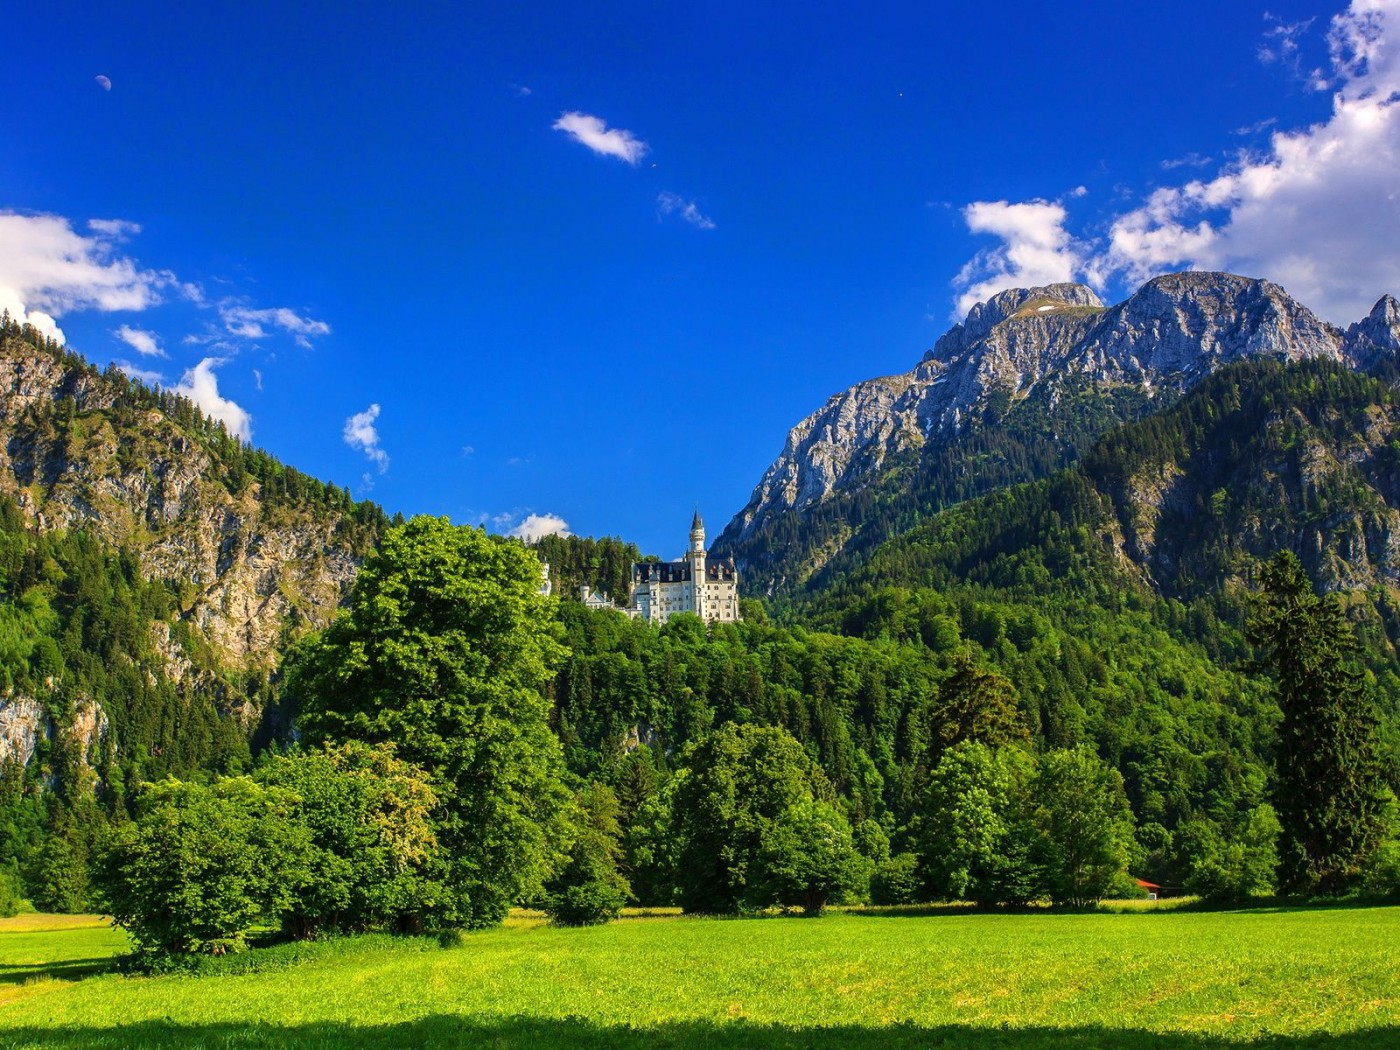
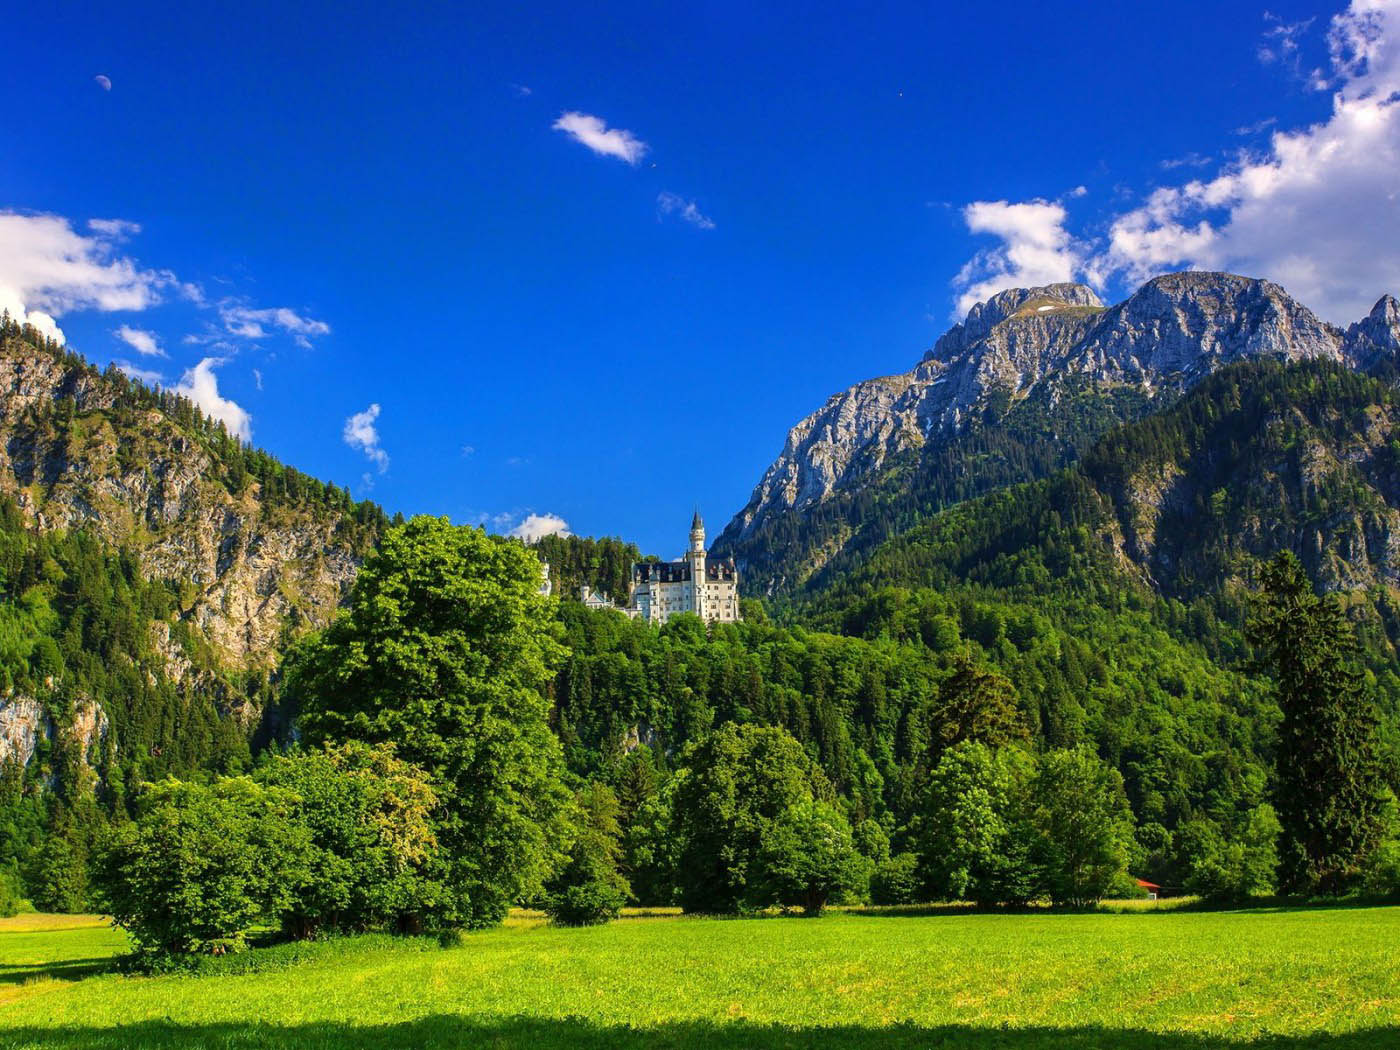
fixed blur, made blur happen

diff --git a/css/skeleton.css b/css/skeleton.css
@@ -430,12 +430,38 @@ there.
  */
 
 /* Scaling full-page background */
-html {
+.container {
+  z-index: 3;
+}
+
+#bkgdBlur {
+  background: url(../images/bkgd1Blur.jpg) no-repeat center center fixed;
+  -webkit-background-size: cover;
+  -moz-background-size: cover;
+  -o-background-size: cover;
+  background-size: cover;
+  z-index: 0;
+  width: 100%;
+  height: 100vh;
+  position: fixed;
+  left:0;
+  top:0;
+}
+
+
+#bkgdMain {
   background: url(../images/bkgd1.jpg) no-repeat center center fixed;
   -webkit-background-size: cover;
   -moz-background-size: cover;
   -o-background-size: cover;
   background-size: cover;
+  /*display: none;*/
+  z-index: 1;
+  width:100%;
+  height: 100vh;
+  position: fixed;
+  left:0;
+  top:0;
 }
 
 .page {
@@ -496,7 +522,7 @@ footer {
   text-align: right;  
   padding: 8px 25px 25px 25px;
   font-size: 1.5rem;
-
+  z-index: 10;
 }
 
 .navBtn {

diff --git a/lensbricks.js b/lensbricks.js
@@ -3,12 +3,16 @@ $( function() {
 		aboutPage$ = $( '#aboutPage' ),
 		teamPage$ = $( '#teamPage' );
 
-	var fadeInSpeed = 550,
+	var isFirstTime = true,
+		fadeInSpeed = 550,
 		currentlyShowing = "";
+
+	var startURL = window.location.hash;
 
 
 	navBtns$.on( 'click', function(e) {
 		var who = $(e.target).text();
+
 		console.log( 'click on ' + who );
 
 
@@ -30,6 +34,12 @@ $( function() {
 			currentlyShowing = 'team';
 		}
 
+		if ( isFirstTime ) {
+			$( '#bkgdMain' ).fadeOut( 500 );
+			isFirstTime = false;
+		}
+
+		window.location.hash =  startURL + ( '#' + currentlyShowing );
 	});
 
 });

diff --git a/index.html b/index.html
@@ -17,6 +17,8 @@
     </head>
 
 <body>
+    <div id="bkgdBlur"></div>
+    <div id="bkgdMain"></div>
     <div class="container">
         <div class="row">
 
